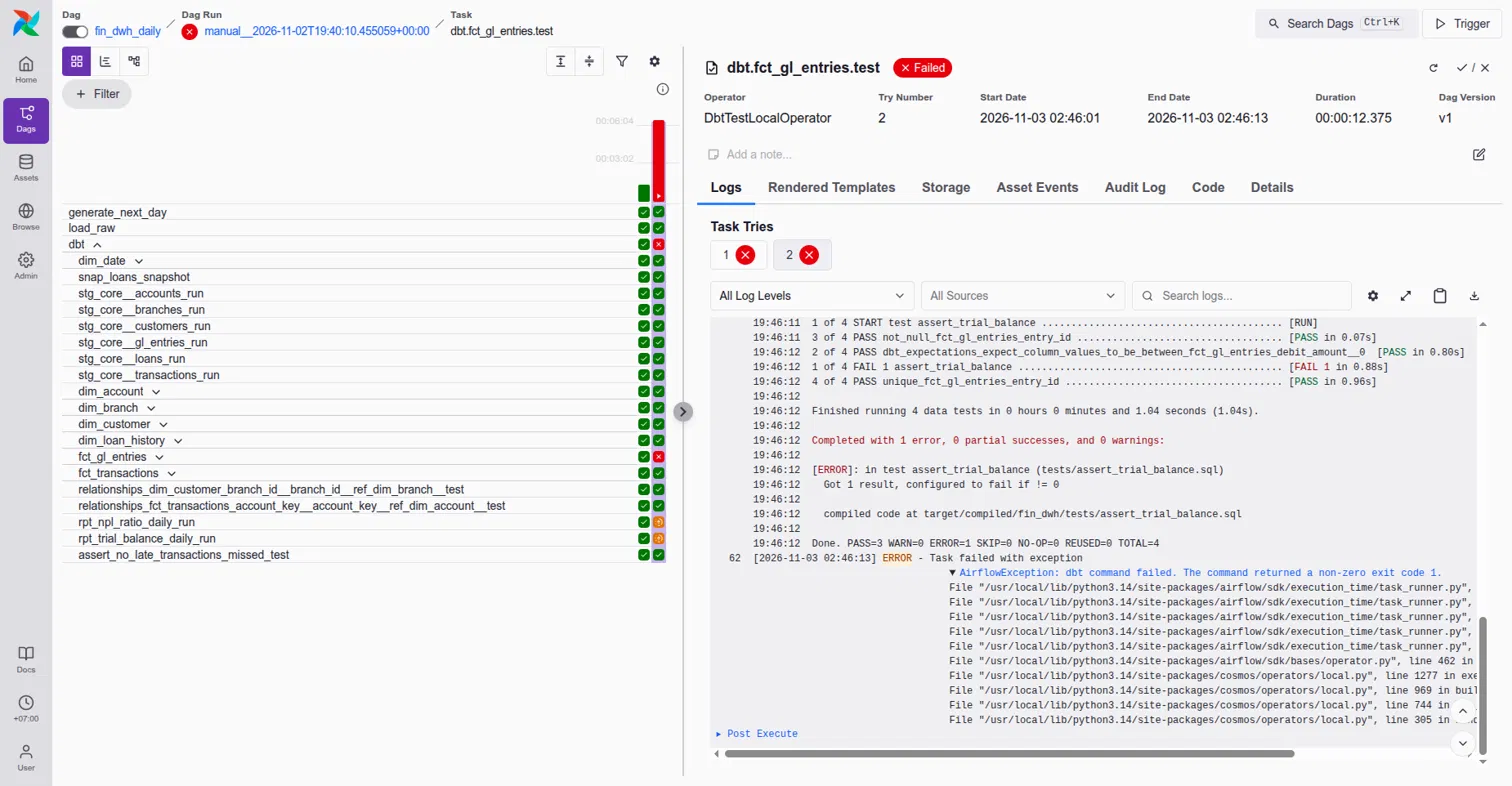
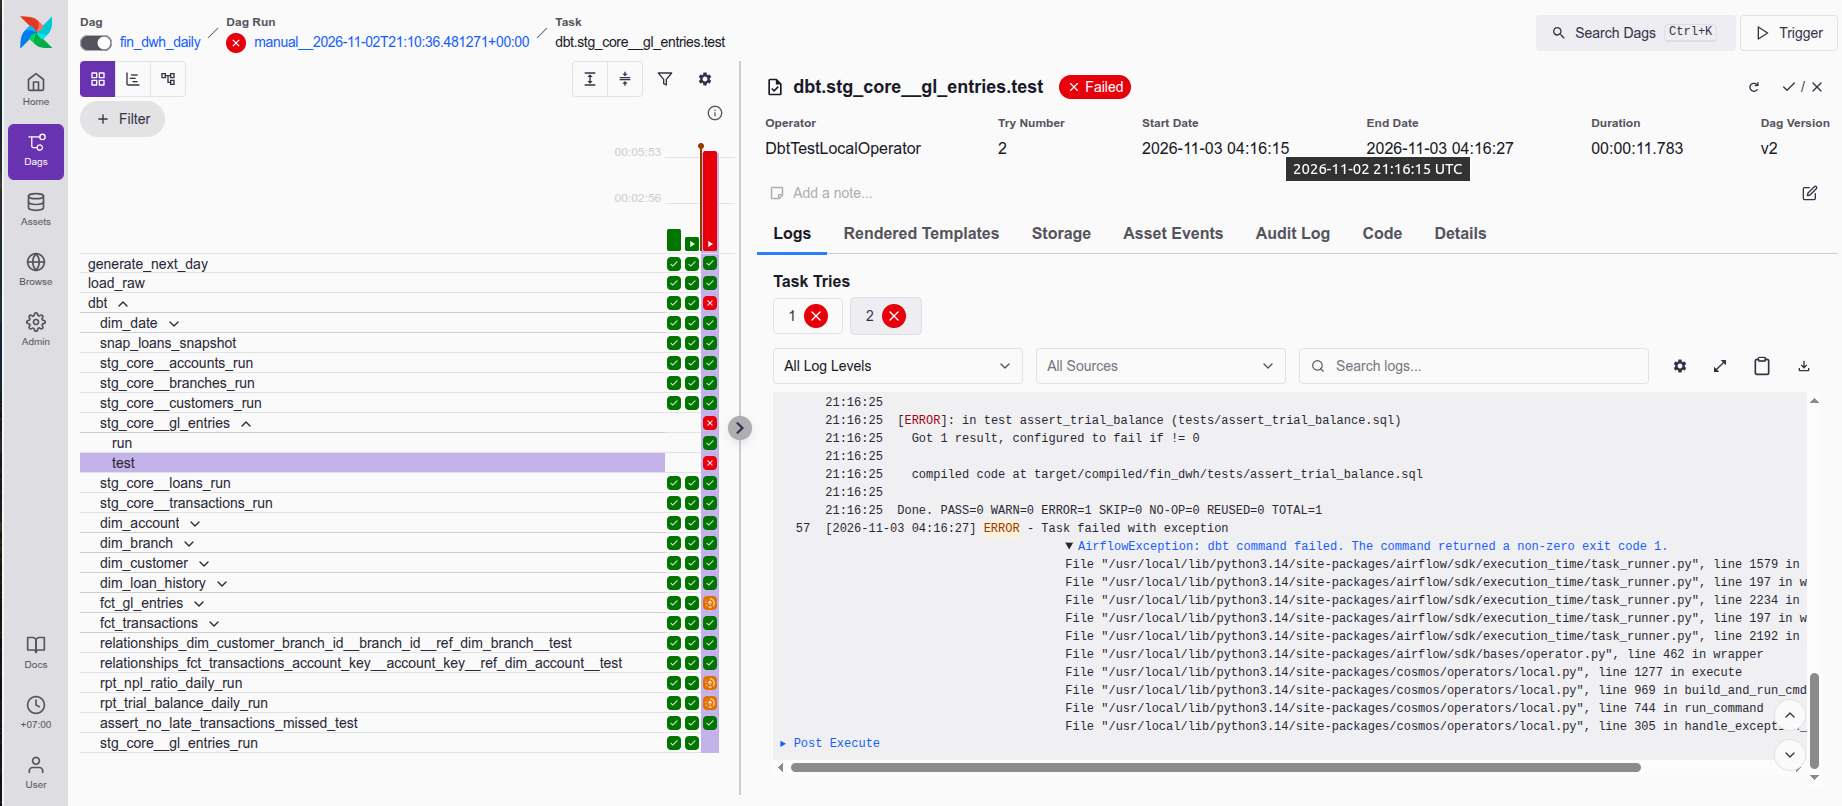
Fix late-arrival status, PII hash oracle, circuit breaker placement
- Incremental facts filter on ingested_at instead of business date, so late
  NAPAS settlements no longer stay PENDING; reconciliation test also flags
  stale statuses
- Hash PII at build time into hidden __hmac columns; analysts can no longer
  call governance.pii_hash
- Move assert_trial_balance to staging so the GL fact and its secure view never
  receive unbalanced data; held-back credit line returns on the next day
- Generate reversal journals for REVERSED transactions
- DAG: Vietnam timezone schedule, idempotent next-day via run_id, drop
  duplicate deps flag
- Pin dependency versions and CI runner; remove stray files
- Update README and screenshots

diff --git a/include/data_generator/bankgen.py b/include/data_generator/bankgen.py
@@ -6,7 +6,9 @@ Mô phỏng đúng 3 "vấn đề thật" mà dự án cần xử lý:
      PENDING -> SETTLED/REVERSED sau khi đã nạp.
   2. Khoản vay CHUYỂN NHÓM NỢ theo thời gian (nhóm 1-5; nhóm 3-5 là nợ xấu/NPL).
   3. Bút toán sổ cái (GL) luôn cân Nợ = Có, trừ khi bật --inject-imbalance để
-     thử cơ chế ngắt mạch.
+     thử cơ chế ngắt mạch: một dòng Có bị giữ lại, và về như bút toán bổ sung
+     trong lần next-day kế tiếp -> sổ cân trở lại, báo cáo chạy tiếp.
+     Giao dịch NAPAS bị REVERSED có bút toán đảo vào ngày quyết toán.
 
 Dữ liệu được ghi ra thư mục landing theo "ngày về" (ingest date), giống file
 mà hệ thống nguồn đẩy sang mỗi ngày. Lệnh `load` nạp các file đến hạn vào DB.
@@ -31,6 +33,7 @@ from pathlib import Path
 
 DATA_DIR = Path(os.environ.get("BANKGEN_DATA_DIR", Path(__file__).parent / "data"))
 LANDING = DATA_DIR / "landing"
+HELD_FILE = LANDING / "held_back_gl.csv"   # dòng Có bị --inject-imbalance giữ lại
 STATE_FILE = DATA_DIR / "state.json"
 SEED = 42
 
@@ -54,7 +57,7 @@ GL_CLEARING = "5012"       # Thanh toán bù trừ liên ngân hàng
 GL_FEE_INCOME = "7110"     # Thu phí dịch vụ thanh toán
 
 # Độ trễ của giao dịch NAPAS (ngày) và xác suất: phần lớn về trong ngày,
-# 1% về trễ 5 ngày (mô phỏng nghỉ lễ) — vượt cửa sổ quét lùi mặc định.
+# 1% về trễ 5 ngày (mô phỏng nghỉ lễ).
 NAPAS_DELAY = [(0, 0.75), (1, 0.15), (2, 0.06), (3, 0.03), (5, 0.01)]
 
 TXN_COLS = ["txn_id", "event_seq", "account_id", "branch_id", "txn_ts", "txn_date", "channel",
@@ -179,13 +182,13 @@ def _gen_day(rng: random.Random, d: date, inject_imbalance: bool = False) -> Non
                                        "ingested_at": ingested_at.isoformat()})
 
         # NAPAS: hôm sau mới có kết quả quyết toán -> sự kiện thứ 2 cùng txn_id
+        final = None
         if channel == "NAPAS":
             settle_day = ingest_day + timedelta(days=1)
+            settled_at = datetime.combine(settle_day, datetime.min.time()) + timedelta(hours=23)
             final = "REVERSED" if rng.random() < 0.02 else "SETTLED"
             bucket(settle_day)[0].append({
-                **base, "event_seq": 2, "status": final,
-                "ingested_at": (datetime.combine(settle_day, datetime.min.time())
-                                + timedelta(hours=23)).isoformat()})
+                **base, "event_seq": 2, "status": final, "ingested_at": settled_at.isoformat()})
 
         # Bút toán kép: tiền vào -> Nợ quỹ/bù trừ, Có tiền gửi KH; tiền ra ngược lại
         other = {"INTERNAL": GL_DEPOSIT, "NAPAS": GL_CLEARING, "ATM": GL_CASH}[channel]
@@ -203,13 +206,25 @@ def _gen_day(rng: random.Random, d: date, inject_imbalance: bool = False) -> Non
                 "gl_account": gl, "currency": cur, "debit_amount": de, "credit_amount": cr_amt,
                 "source_txn_id": txn_id, "ingested_at": ingested_at.isoformat()})
 
+        # Bị trả về: bút toán đảo (Nợ <-> Có) vào ngày quyết toán, kể cả phí
+        if final == "REVERSED":
+            for k, (gl, de, cr_amt) in enumerate(lines, 1):
+                bucket(settle_day)[1].append({
+                    "entry_id": f"{txn_id}-REV-{k}", "journal_id": f"{txn_id}-REV",
+                    "posting_date": settle_day.isoformat(), "branch_id": acc["branch_id"],
+                    "gl_account": gl, "currency": cur, "debit_amount": cr_amt, "credit_amount": de,
+                    "source_txn_id": txn_id, "ingested_at": settled_at.isoformat()})
+
     for ingest_day, (txns, gls) in by_ingest.items():
         if inject_imbalance and ingest_day == d and gls:
-            # Xóa 1 dòng Có -> sổ cái chi nhánh đó lệch, test phải chặn pipeline
+            # Giữ lại 1 dòng Có -> sổ cái chi nhánh đó lệch, test phải chặn pipeline.
+            # Lần next-day sau, dòng này về như bút toán bổ sung (xem cmd_next_day).
             idx = next(i for i, g in enumerate(gls) if float(g["credit_amount"]) > 0)
             removed = gls.pop(idx)
-            print(f"[inject-imbalance] Đã xóa dòng Có {removed['entry_id']} "
-                  f"({removed['branch_id']}, {removed['currency']}, {removed['credit_amount']})")
+            _write_csv(HELD_FILE, GL_COLS, [removed], append=True)
+            print(f"[inject-imbalance] Đã giữ lại dòng Có {removed['entry_id']} "
+                  f"({removed['branch_id']}, {removed['currency']}, {removed['credit_amount']}); "
+                  f"lần next-day sau nó sẽ về")
         tag = ingest_day.isoformat()
         _write_csv(LANDING / "transactions" / f"ingest_date={tag}.csv", TXN_COLS, txns, append=True)
         _write_csv(LANDING / "gl_entries" / f"ingest_date={tag}.csv", GL_COLS, gls, append=True)
@@ -256,12 +271,27 @@ def cmd_next_day(args) -> None:
     s = _state()
     if not s:
         raise SystemExit("Chưa init. Chạy: python bankgen.py init")
+    # Airflow truyền run_id: chạy lại / clear cùng một DAG run thì không sinh thêm ngày nữa
+    if args.run_id and s.get("last_run_id") == args.run_id:
+        print(f"Lần chạy {args.run_id} đã sinh ngày {s['current_date']}; bỏ qua để không sinh trùng.")
+        return
     d = date.fromisoformat(s["current_date"]) + timedelta(days=1)
+    held = _read_csv(HELD_FILE) if HELD_FILE.exists() else []
+    if held:
+        HELD_FILE.unlink()
     rng = random.Random(s["rng_state_seed"])
     _gen_day(rng, d, inject_imbalance=args.inject_imbalance)
+    if held:
+        # Dòng bị giữ lại về hôm nay, posting_date giữ nguyên ngày cũ (bút toán bổ sung)
+        late_at = (datetime.combine(d, datetime.min.time()) + timedelta(hours=23)).isoformat()
+        _write_csv(LANDING / "gl_entries" / f"ingest_date={d.isoformat()}.csv", GL_COLS,
+                   [{**g, "ingested_at": late_at} for g in held], append=True)
+        print(f"Đã nạp bổ sung {len(held)} dòng sổ cái bị giữ lại -> sổ cái cân trở lại.")
     changed = _migrate_loans(rng, d)
     s["current_date"] = d.isoformat()
     s["rng_state_seed"] += 1
+    if args.run_id:
+        s["last_run_id"] = args.run_id
     _save_state(s)
     print(f"Đã sinh ngày {d}; {changed} khoản vay đổi nhóm nợ.")
 
@@ -354,6 +384,7 @@ def main() -> None:
     a = sub.add_parser("init"); a.add_argument("--start", default="2026-09-01")
     a.add_argument("--days", type=int, default=30); a.add_argument("--force", action="store_true")
     b = sub.add_parser("next-day"); b.add_argument("--inject-imbalance", action="store_true")
+    b.add_argument("--run-id", help="id lần chạy Airflow; trùng với lần trước thì bỏ qua")
     sub.add_parser("load")
     sub.add_parser("reset-db")
     args = p.parse_args()

diff --git a/dags/fin_dwh_daily.py b/dags/fin_dwh_daily.py
@@ -63,8 +63,8 @@ render_config = RenderConfig(
 
 @dag(
     dag_id="fin_dwh_daily",
-    schedule="15 6 * * *",  # 06:15 mỗi ngày (giờ UTC của Airflow)
-    start_date=datetime(2026, 10, 1),
+    schedule="15 6 * * *",  # 06:15 mỗi ngày theo giờ Việt Nam (múi giờ lấy từ start_date)
+    start_date=datetime(2026, 10, 1, tz="Asia/Ho_Chi_Minh"),
     catchup=False,
     max_active_runs=1,
     default_args={"retries": 1},
@@ -79,7 +79,8 @@ def fin_dwh_daily():
     generate_next_day = BashOperator(
         task_id="generate_next_day",
         bash_command=(
-            f"python {BANKGEN} next-day"
+            # run_id: clear / chạy lại cùng DAG run thì không sinh thêm ngày
+            f"python {BANKGEN} next-day --run-id '{{{{ run_id }}}}'"
             "{{ ' --inject-imbalance' if params.inject_imbalance else '' }}"
         ),
     )
@@ -95,7 +96,6 @@ def fin_dwh_daily():
         profile_config=profile_config,
         execution_config=execution_config,
         render_config=render_config,
-        operator_args={"install_deps": True},
     )
 
     chain(generate_next_day, load_raw, transform)
